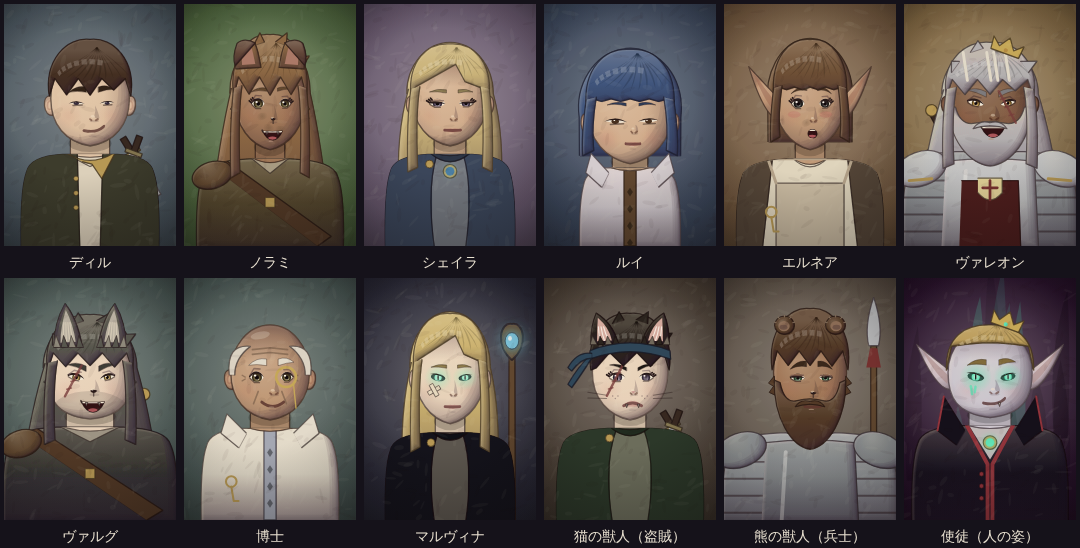
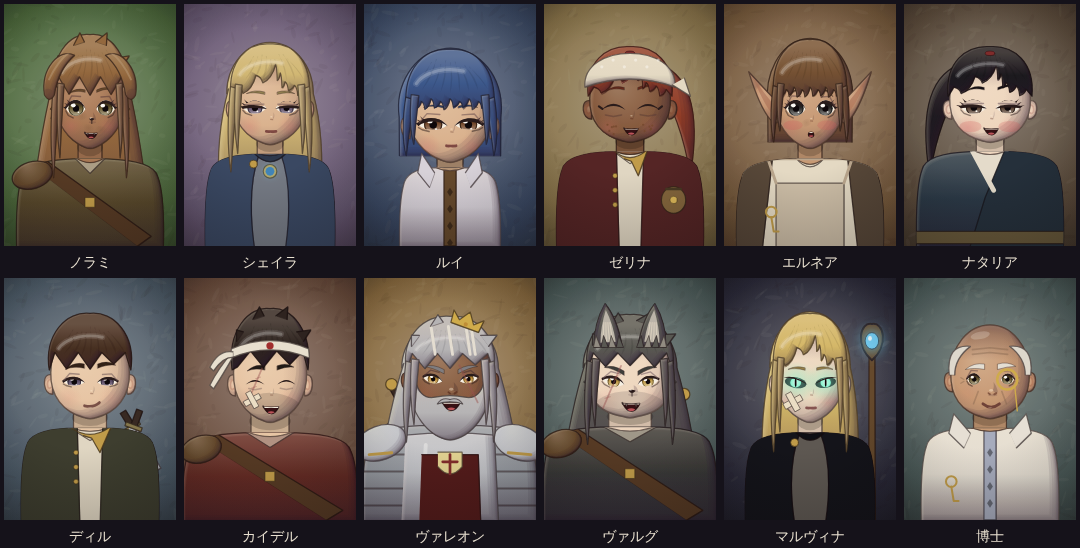
V3：人物の肖像を可愛く・美形に
- 顔：頬はふっくら顎は細く、目は大きめで中央より少し下（若い女ほど大きく、歳とともに落ち着く）、鼻と口は小さく、頬に赤み
- 目：虹彩は上が暗く下が明るい縦長、光の点を大きく二つ、目尻のまつげのはね。細目も半分閉じた目に
- 髪：前髪を先の尖った毛束に、横髪を二本の束に、光の輪を滑らかな帯に。ツインテール・三つ編み・流し前髪を足す
- 犬の耳は顔の脇へ垂れる垂れ耳に
- 傷・汚れ・皺は控えめに。筆のにじみは背景だけ。くすませる仕上げは弱く
- 比較画像の人物をキャラメモの人物中心に撮り直す（前は main のまま）

Claude-Session: https://claude.ai/code/session_01UgmRGEWXKYBTzGzTLKtqSh

diff --git a/src/ui/art_people.js b/src/ui/art_people.js
@@ -45,7 +45,7 @@
     priest: K({ name: "神官", desc: "光天教会の神官・修道女・巡礼", age: [22, 66], female: 0.45, outfit: ["vestment"], head: ["none", "mitre", "none", "veil"], gear: ["none", "none", "staff"], chest: ["sun"], cloth: ["#ece6d6"], trim: ["#b08a1e", "#8a2a2a", "#2e4d8f"], bg: "#b8a870", eyes: ["narrow", "normal", "smile"], mouth: ["smile", "flat", "smirk"], brows: ["raised", "calm"], hair: ["short", "slick", "receding", "long"], marks: { wrinkles: 0.3, blush: 0.2, glasses: 0.15 } }),
     noble: K({ name: "貴族", desc: "貴族・その奥方・廷臣", age: [20, 62], outfit: ["noble"], head: ["none", "circlet", "none"], chest: ["gem", "chain"], cloth: ["#5a1a3a", "#1a3a5a", "#2a4a2a", "#4a2a6a"], bg: "#6a4a6a", eyes: ["narrow", "sleepy", "normal"], mouth: ["smirk", "flat", "frown"], brows: ["raised"], hair: ["slick", "long", "bun", "parted"], marks: { mustache: 0.35, glasses: 0.15, blush: 0.25, earring: 0.3 } }),
     rogue: K({ name: "ならず者", desc: "盗賊・ごろつき・用心棒・奴隷商人", age: [18, 48], female: 0.3, outfit: ["leather", "rags", "cloak"], head: ["bandana", "none", "hood"], gear: ["daggers", "none", "sword"], cloth: ["#4a3a2a", "#2e3a2e", "#3a2a3a", "#5a3a2a"], bg: "#4a4038", eyes: ["sharp", "narrow", "normal"], mouth: ["grin", "smirk", "frown"], brows: ["angry", "raised"], hair: ["messy", "spiky", "short", "long"], marks: { scar: 0.45, stubble: 0.45, eyepatch: 0.15, earring: 0.3, tattoo: 0.2 } }),
-    child: K({ name: "子ども", desc: "町の子ども・孤児・スリの子", age: [7, 12], outfit: ["tunic", "rags", "apron"], head: ["none", "none", "cap"], cloth: ["#7a5a3a", "#5a7a8a", "#8a4a3a", "#6a7a4a"], bg: "#8a9a7a", eyes: ["round", "normal"], mouth: ["open", "smile", "frown"], brows: ["worried", "raised", "calm"], hair: ["messy", "short", "bob", "ponytail"], marks: { freckles: 0.45, blush: 0.5, bandage: 0.25 } }),
+    child: K({ name: "子ども", desc: "町の子ども・孤児・スリの子", age: [7, 12], outfit: ["tunic", "rags", "apron"], head: ["none", "none", "cap"], cloth: ["#7a5a3a", "#5a7a8a", "#8a4a3a", "#6a7a4a"], bg: "#8a9a7a", eyes: ["round", "normal"], mouth: ["open", "smile", "frown"], brows: ["worried", "raised", "calm"], hair: ["messy", "short", "bob", "ponytail", "twintail"], marks: { freckles: 0.45, blush: 0.5, bandage: 0.25 } }),
     elder: K({ name: "老人", desc: "村の長老・隠者・占い婆", age: [66, 90], outfit: ["robe", "tunic", "cloak"], head: ["none", "none", "hood", "kerchief"], gear: ["none", "staff"], cloth: ["#5a5048", "#4a4a5a", "#6a5a3a"], bg: "#6a6258", eyes: ["narrow", "sleepy", "normal"], mouth: ["flat", "smile", "open"], brows: ["worried", "calm"], hair: ["bald", "receding", "long", "bun"], marks: { wrinkles: 1, beard: 0.45, bags: 0.6 } }),
     soldier: K({ name: "兵士", desc: "帝国兵・脱走兵・傭兵団の兵", age: [18, 45], female: 0.15, outfit: ["armor", "leather"], head: ["helmet", "none", "headband"], gear: ["sword", "spear"], cloth: ["#5a2a22", "#3a3a3a", "#4a4a2a"], bg: "#5a5048", eyes: ["sharp", "normal", "sleepy"], mouth: ["frown", "flat"], brows: ["angry", "worried"], hair: ["short", "messy", "spiky"], marks: { scar: 0.4, stubble: 0.5, bandage: 0.25 } }),
     knight: K({ name: "騎士", desc: "王国の騎士・近衛・聖騎士", age: [20, 50], female: 0.3, outfit: ["plate"], head: ["none", "none", "helmet"], gear: ["greatsword", "sword"], chest: ["crest"], cloth: ["#2a4a9a", "#8a2a2a", "#e0dcd0"], bg: "#4a5a7a", eyes: ["sharp", "normal"], mouth: ["flat", "smirk"], brows: ["angry", "calm", "raised"], hair: ["parted", "short", "long", "slick"], marks: { scar: 0.25, mustache: 0.15 } }),
@@ -66,8 +66,8 @@
     priest: K({ name: "破戒神官", outfit: ["vestment"], head: ["none", "none", "veil"], gear: ["mace"], chest: ["sun"], cloth: ["#ece6d6", "#d8d2c4"], trim: ["#8a2a2a", "#2e4d8f", "#b08a1e"], bg: "#9a8a5a", eyes: ["sleepy", "normal", "narrow"], mouth: ["smirk", "smile", "grin"], brows: ["raised", "calm"], hair: ["messy", "short", "long", "parted"], marks: { stubble: 0.45, bags: 0.4, blush: 0.35 } }),
     samurai: K({ name: "侍", outfit: ["kimono"], armor: true, head: ["none", "headband", "none"], gear: ["katana"], cloth: ["#2a2a3a", "#3a2a22", "#1a2a3a", "#4a1a1a"], bg: "#6a4a3a", eyes: ["sharp", "narrow", "normal"], mouth: ["flat", "frown", "smirk"], brows: ["angry", "calm"], hair: ["topknot", "ponytail", "messy", "long"], marks: { scar: 0.25, stubble: 0.25 } }),
   };
-  const FEMALE_HAIR = ["long", "ponytail", "bob", "bun", "parted", "long"];
-  const MALE_HAIR = ["short", "messy", "spiky", "parted", "slick", "short"];
+  const FEMALE_HAIR = ["long", "ponytail", "bob", "bun", "parted", "long", "twintail", "braid"];
+  const MALE_HAIR = ["short", "messy", "spiky", "parted", "slick", "short", "swept"];
 
   // ---------------------------------------------------------------- 見た目を決める（純粋な関数）
   G.personLook = (who) => {
@@ -96,6 +96,7 @@
     if (female && ["receding", "bald"].includes(L.hairStyle)) L.hairStyle = pickR(R, ["bun", "long"]);
     if (!female && L.head === "veil") L.head = "none";
     if (!female && L.hairStyle === "bob") L.hairStyle = "messy";
+    if (!female && (L.hairStyle === "twintail" || L.hairStyle === "braid")) L.hairStyle = "ponytail";
     if (band === "old") { L.hair = pickR(R, ["#e2ded6", "#c8c4bc", "#9a9690", "#7a7672"]); }
     if (band === "mid" && R() < 0.4) L.streak = true;
     if (L.kind === "majin") { L.hair = pickR(R, ["#e8e4ec", "#1a1422", "#8a1a2a", "#4a2a6a", "#c8a040"]); L.iris = pickR(R, ["#ff3a3a", "#ffb02a", "#b04aff", "#3affc8"]); L.ears = "pointy"; }
@@ -241,8 +242,10 @@
   function facePath(ctx, cx, cy, rx, ry, jaw) {
     ctx.moveTo(cx - rx, cy);
     ctx.ellipse(cx, cy, rx, ry, 0, Math.PI, TAU);
-    ctx.bezierCurveTo(cx + rx, cy + ry * 0.55, cx + rx * jaw, cy + ry * 0.92, cx, cy + ry);
-    ctx.bezierCurveTo(cx - rx * jaw, cy + ry * 0.92, cx - rx, cy + ry * 0.55, cx - rx, cy);
+    // 頬はふっくら、顎の先は小さく丸く
+    ctx.bezierCurveTo(cx + rx * 1.02, cy + ry * 0.5, cx + rx * (jaw + 0.18), cy + ry * 0.84, cx + rx * 0.16, cy + ry * 0.95);
+    ctx.quadraticCurveTo(cx, cy + ry * 1.0, cx - rx * 0.16, cy + ry * 0.95);
+    ctx.bezierCurveTo(cx - rx * (jaw + 0.18), cy + ry * 0.84, cx - rx * 1.02, cy + ry * 0.5, cx - rx, cy);
   }
   const FACES = { oval: [1, 1, 0.62], round: [1.07, 0.95, 0.8], square: [1.04, 0.98, 0.9], long: [0.93, 1.08, 0.6], thin: [0.9, 1.02, 0.48] };
 
@@ -251,6 +254,16 @@
     const g = ctx.createRadialGradient(x + w * 0.5, y + h * 0.38, h * 0.05, x + w * 0.5, y + h * 0.5, h * 0.85);
     g.addColorStop(0, mix(L.bg, "#ffffff", 0.28)); g.addColorStop(0.55, L.bg); g.addColorStop(1, mix(L.bg, "#000000", 0.6));
     ctx.fillStyle = g; ctx.fillRect(x, y, w, h);
+    // 背景だけに筆のにじみ（人物の顔には載せない）
+    const R = rng((L.seed || "p") + ":brush");
+    ctx.lineCap = "round";
+    for (let i = 0; i < 220; i++) {
+      // 筆のひと押し（向きのばらつく、にじんだ短い楕円）
+      const px = x + R() * w, py = y + R() * h, len = h * (0.012 + R() * 0.025), a = -0.7 + (R() - 0.5) * 2.2;
+      ctx.fillStyle = i % 2 ? "rgba(255,244,220,.04)" : "rgba(30,18,20,.05)";
+      ctx.beginPath(); ellipse(ctx, px, py, len, h * (0.004 + R() * 0.006), a); ctx.fill();
+    }
+
     if (L.kind === "majin") {
       // 立ちのぼる黒い気
       const R = rng(L.seed + ":aura");
@@ -519,6 +532,17 @@
       });
     } else if (st === "bob") {
       paint(ctx, vgrad(ctx, cy - ry, cy + ry, c.base), lw, () => { ctx.moveTo(cx - rx * 1.2, cy + ry * 0.85); ctx.ellipse(cx, cy - ry * 0.05, rx * 1.22, ry * 1.12, 0, Math.PI * 0.95, Math.PI * 2.05); ctx.lineTo(cx + rx * 1.2, cy + ry * 0.85); });
+    } else if (st === "twintail") {
+      // 頭の両横の高い所で結び、外へふくらんで垂れる
+      for (const s of [-1, 1]) {
+        paint(ctx, vgrad(ctx, cy - ry, cy + ry * 1.9, c.base), lw, () => { ctx.moveTo(cx + s * rx * 0.85, cy - ry * 0.75); ctx.bezierCurveTo(cx + s * rx * 2.0, cy - ry * 0.7, cx + s * rx * 1.9, cy + ry * 1.0, cx + s * rx * 1.35, cy + ry * 1.9); ctx.quadraticCurveTo(cx + s * rx * 1.5, cy + ry * 0.7, cx + s * rx * 1.0, cy - ry * 0.35); ctx.closePath(); });
+        ctx.strokeStyle = rgba(c.dark, 0.5); ctx.lineWidth = lw * 0.7; ctx.beginPath(); ctx.moveTo(cx + s * rx * 1.1, cy - ry * 0.55); ctx.quadraticCurveTo(cx + s * rx * 1.7, cy + ry * 0.3, cx + s * rx * 1.4, cy + ry * 1.6); ctx.stroke();
+        ctx.strokeStyle = rgba(c.light, 0.5); ctx.lineWidth = lw * 1.2; ctx.beginPath(); ctx.moveTo(cx + s * rx * 1.25, cy - ry * 0.6); ctx.quadraticCurveTo(cx + s * rx * 1.6, cy - ry * 0.2, cx + s * rx * 1.6, cy + ry * 0.3); ctx.stroke();
+        paint(ctx, "#b03a52", lw * 0.6, () => ellipse(ctx, cx + s * rx * 0.95, cy - ry * 0.72, rx * 0.14, ry * 0.09));
+      }
+      paint(ctx, vgrad(ctx, cy - ry, cy + ry, c.base), lw, () => { ctx.moveTo(cx - rx * 1.15, cy + ry * 0.5); ctx.ellipse(cx, cy - ry * 0.05, rx * 1.15, ry * 1.08, 0, Math.PI, TAU); ctx.lineTo(cx + rx * 1.15, cy + ry * 0.5); });
+    } else if (st === "braid") {
+      paint(ctx, vgrad(ctx, cy - ry, cy + ry, c.base), lw, () => { ctx.moveTo(cx - rx * 1.15, cy + ry * 0.6); ctx.ellipse(cx, cy - ry * 0.05, rx * 1.15, ry * 1.08, 0, Math.PI, TAU); ctx.lineTo(cx + rx * 1.15, cy + ry * 0.6); });
     } else if (st === "ponytail") {
       const R = rng(L.seed + ":tail"), s = R() < 0.5 ? -1 : 1;
       paint(ctx, vgrad(ctx, cy - ry, cy + ry * 1.8, c.base), lw, () => { ctx.moveTo(cx + s * rx * 0.6, cy - ry * 0.8); ctx.quadraticCurveTo(cx + s * rx * 1.9, cy - ry * 0.5, cx + s * rx * 1.5, cy + ry * 1.7); ctx.quadraticCurveTo(cx + s * rx * 1.25, cy + ry * 0.4, cx + s * rx * 0.7, cy - ry * 0.3); });
@@ -542,12 +566,12 @@
     if (st === "spiky" || st === "messy" || st === "wild") {
       const n = st === "spiky" ? 5 : 6;
       for (let i = 0; i <= n; i++) { const t = i / n; const px = cx + rx * (0.9 - t * 1.8); fr.push(px, hl + (i % 2 ? ry * (0.22 + R() * 0.12) : -ry * 0.02)); }
-    } else if (st === "parted" || st === "long" || st === "ponytail") {
+    } else if (st === "parted" || st === "long" || st === "ponytail" || st === "braid" || st === "swept") {
       const part = R() < 0.5 ? -1 : 1;
       fr.push(cx + rx * 0.9, cy - ry * 0.25, cx + part * rx * 0.15, cy - ry * 0.72, cx - rx * 0.4, cy - ry * 0.35, cx - rx * 0.9, cy - ry * 0.2);
       if (part < 0) for (let i = 0; i < fr.length; i += 2) fr[i] = 2 * cx - fr[i];
       if (part < 0) { const p = []; for (let i = fr.length - 2; i >= 0; i -= 2) p.push(fr[i], fr[i + 1]); fr.length = 0; fr.push(...p); }
-    } else if (st === "bob") {
+    } else if (st === "bob" || st === "twintail") {
       for (let i = 0; i <= 8; i++) fr.push(cx + rx * (0.9 - (i / 8) * 1.8), cy - ry * 0.22 + (i % 2 ? ry * 0.05 : 0));
     } else if (st === "receding") {
       fr.push(cx + rx * 0.95, cy - ry * 0.35, cx + rx * 0.5, cy - ry * 0.55, cx + rx * 0.25, cy - ry * 0.95, cx - rx * 0.25, cy - ry * 0.95, cx - rx * 0.5, cy - ry * 0.55, cx - rx * 0.95, cy - ry * 0.35);
@@ -556,14 +580,25 @@
       const n = 5;
       for (let i = 0; i <= n; i++) fr.push(cx + rx * (0.92 - (i / n) * 1.84), hl + (st === "slick" || st === "topknot" || st === "bun" ? -Math.sin((i / n) * Math.PI) * ry * 0.08 : (i % 2 ? ry * 0.1 : 0)));
     }
+    // 前髪は尖った毛束にする（点を足して、点と点のあいだに先の細い束を垂らす）
+    const locks = !["spiky", "messy", "wild", "receding"].includes(st);
+    if (locks && fr.length < 14) { const p = fr.slice(); fr.length = 0; for (let i = 0; i < p.length - 2; i += 2) for (let k = 0; k < 2; k++) fr.push(p[i] + (p[i + 2] - p[i]) * k / 2, p[i + 1] + (p[i + 3] - p[i + 1]) * k / 2); fr.push(p[p.length - 2], p[p.length - 1]); }
+    const fringe = () => {
+      ctx.lineTo(fr[0], fr[1]);
+      for (let i = 2; i < fr.length; i += 2) {
+        if (!locks) { ctx.lineTo(fr[i], fr[i + 1]); continue; }
+        const ax = fr[i - 2], ay = fr[i - 1], bx = fr[i], by = fr[i + 1], tx = (ax + bx) / 2 + (bx - ax) * 0.15, ty2 = Math.max(ay, by) + ry * (0.1 + R() * 0.06);
+        ctx.quadraticCurveTo(ax + (tx - ax) * 0.3, ay + (ty2 - ay) * 0.8, tx, ty2);
+        ctx.quadraticCurveTo(tx + (bx - tx) * 0.2, by + (ty2 - by) * 0.2, bx, by);
+      }
+    };
     const cap = () => {
       ctx.moveTo(lx, ty);
       if (st === "receding") { ctx.lineTo(lx, cy - ry * 0.45); } else ctx.bezierCurveTo(lx - rx * (vol - 1), cy - ry * 0.8, cx - rx * 0.6, top - ry * (vol - 1) * 2, cx, top - ry * (vol - 1) * 1.6);
       if (st !== "receding") ctx.bezierCurveTo(cx + rx * 0.6, top - ry * (vol - 1) * 2, rxp + rx * (vol - 1), cy - ry * 0.8, rxp, ty);
       else { ctx.moveTo(rxp, cy - ry * 0.45); }
       ctx.lineTo(rxp, ty);
-      ctx.lineTo(fr[0], fr[1]);
-      for (let i = 2; i < fr.length; i += 2) ctx.lineTo(fr[i], fr[i + 1]);
+      fringe();
       ctx.lineTo(lx, ty);
     };
     if (st === "receding") {
@@ -575,23 +610,34 @@
       // 毛の流れ
       ctx.save(); ctx.beginPath(); cap(); ctx.clip();
       // 毛の束：つむじから前髪へ流れる暗い溝と、光を受ける筋
-      const crown = [cx + rx * 0.15, top - ry * 0.05];
-      for (let i = 0; i < 11; i++) {
-        const t = i / 10, ex = cx + rx * (-1.0 + t * 2.0), ey = cy - ry * (0.35 + Math.abs(t - 0.5) * 0.25), w = rx * (0.035 + R() * 0.03);
-        ctx.fillStyle = rgba(c.dark, 0.38); ctx.beginPath(); ctx.moveTo(crown[0], crown[1]); ctx.quadraticCurveTo((crown[0] + ex) / 2 + w * 4, (crown[1] + ey) / 2, ex, ey); ctx.quadraticCurveTo((crown[0] + ex) / 2 + w * 2, (crown[1] + ey) / 2, crown[0] + w, crown[1]); ctx.fill();
+      for (let i = 0; i < 9; i++) {
+        const t = (i + 0.5) / 9, sx0 = cx + rx * (-0.5 + t * 1.0), sy0 = top + ry * (0.05 + R() * 0.15), ex = cx + rx * (-1.0 + t * 2.0), ey = cy - ry * (0.32 + Math.abs(t - 0.5) * 0.2), w = rx * (0.03 + R() * 0.03);
+        ctx.fillStyle = rgba(c.dark, 0.22); ctx.beginPath(); ctx.moveTo(sx0, sy0); ctx.quadraticCurveTo((sx0 + ex) / 2 + w * 3, (sy0 + ey) / 2, ex, ey); ctx.quadraticCurveTo((sx0 + ex) / 2 + w, (sy0 + ey) / 2, sx0 + w * 0.5, sy0); ctx.fill();
       }
       // 光の輪（天使の輪）：毛の束で切れぎれ
       const ringY = cy - ry * 0.68;
-      for (let i = 0; i < 7; i++) { const a0 = Math.PI * (1.12 + i * 0.075), a1 = a0 + Math.PI * 0.05; ctx.fillStyle = rgba(c.light, 0.6); ctx.beginPath(); ctx.ellipse(cx, ringY + ry * 0.3, rx * 0.9, ry * 0.45, 0, a0, a1); ctx.ellipse(cx, ringY + ry * 0.36, rx * 0.84, ry * 0.4, 0, a1, a0, true); ctx.closePath(); ctx.fill(); }
+      ctx.lineCap = "round";
+      for (const [wd, al] of [[ry * 0.12, 0.22], [ry * 0.06, 0.5]]) { ctx.strokeStyle = rgba(mix(c.light, "#ffffff", 0.3), al); ctx.lineWidth = wd; ctx.setLineDash([rx * 0.42, rx * 0.07, rx * 0.25, rx * 0.06]); ctx.beginPath(); ctx.ellipse(cx, ringY + ry * 0.33, rx * 0.86, ry * 0.42, 0, Math.PI * 1.12, Math.PI * 1.62); ctx.stroke(); }
+      ctx.setLineDash([]);
       if (L.streak) for (let i = 0; i < 4; i++) { const px = cx + (R() - 0.5) * rx * 1.5; line(ctx, "#e8e4dc", lw * 1.5, [px, top, px + rx * 0.1, cy - ry * 0.4]); }
       ctx.restore();
       // とがった毛先を上に
       if (st === "spiky" || st === "wild") for (let i = 0; i < 4; i++) { const a = Math.PI * (1.2 + i * 0.2), bx = cx + Math.cos(a) * rx * 1.02, by = cy - ry * 0.1 + Math.sin(a) * ry * 1.02; paint(ctx, c.base, lw, () => { ctx.moveTo(bx - Math.sin(a) * rx * 0.16, by + Math.cos(a) * rx * 0.16); ctx.lineTo(bx + Math.cos(a) * rx * 0.24 + rx * 0.1, by + Math.sin(a) * ry * 0.22); ctx.lineTo(bx + Math.sin(a) * rx * 0.16, by - Math.cos(a) * rx * 0.16); }); }
     }
     // 横の毛（長い髪・おかっぱ）
-    if (st === "long" || st === "bob" || st === "wild") {
-      const len = st === "bob" ? 0.85 : 1.55;
-      for (const s of [-1, 1]) paint(ctx, vgrad(ctx, cy - ry * 0.5, cy + ry * len, c.base), lw, () => { ctx.moveTo(cx + s * rx * 1.04, cy - ry * 0.2); ctx.quadraticCurveTo(cx + s * rx * 1.16, cy + ry * 0.5, cx + s * rx * 1.12, cy + ry * len); ctx.lineTo(cx + s * rx * 0.86, cy + ry * (len - 0.1)); ctx.quadraticCurveTo(cx + s * rx * 0.92, cy + ry * 0.3, cx + s * rx * 0.8, cy - ry * 0.25); });
+    if (st === "long" || st === "bob" || st === "wild" || st === "twintail" || st === "braid" || st === "parted" && L.sex === "女") {
+      const len = st === "bob" ? 0.85 : st === "twintail" || st === "braid" || st === "parted" ? 0.7 : 1.55;
+      // 横髪：先の尖った二本の毛束（外の束が長い）
+      for (const s of [-1, 1]) {
+        paint(ctx, vgrad(ctx, cy - ry * 0.5, cy + ry * len, c.base), lw, () => { ctx.moveTo(cx + s * rx * 1.05, cy - ry * 0.25); ctx.quadraticCurveTo(cx + s * rx * 1.18, cy + ry * len * 0.5, cx + s * rx * 1.04, cy + ry * len); ctx.quadraticCurveTo(cx + s * rx * 0.98, cy + ry * len * 0.55, cx + s * rx * 0.86, cy - ry * 0.2); ctx.closePath(); });
+        paint(ctx, vgrad(ctx, cy - ry * 0.5, cy + ry * len * 0.8, mix(c.base, LIGHT, 0.08)), lw, () => { ctx.moveTo(cx + s * rx * 0.92, cy - ry * 0.3); ctx.quadraticCurveTo(cx + s * rx * 0.98, cy + ry * len * 0.35, cx + s * rx * 0.86, cy + ry * len * 0.75); ctx.quadraticCurveTo(cx + s * rx * 0.82, cy + ry * len * 0.3, cx + s * rx * 0.74, cy - ry * 0.28); ctx.closePath(); });
+      }
+    }
+    // 三つ編み：片側の肩から胸へ垂らす（編み目の連なり）
+    if (st === "braid") {
+      const sd = rng(L.seed + ":braid")() < 0.5 ? -1 : 1;
+      for (let i = 0; i < 7; i++) { const bx = cx + sd * rx * (0.95 + i * 0.03), by = cy + ry * (0.35 + i * 0.22), r = rx * (0.2 - i * 0.012); paint(ctx, rgrad(ctx, bx, by, r, c.base), lw * 0.8, () => { ctx.ellipse(bx, by, r, ry * 0.14, sd * 0.35 * (i % 2 ? 1 : -1), 0, TAU); }); }
+      paint(ctx, "#a83a4a", lw * 0.6, () => ellipse(ctx, cx + sd * rx * 1.17, cy + ry * 1.88, rx * 0.12, ry * 0.05));
     }
     // 結った髪
     if (st === "bun") paint(ctx, rgrad(ctx, cx, top - ry * 0.1, rx * 0.4, c.base), lw, () => ellipse(ctx, cx, top - ry * 0.08, rx * 0.4, ry * 0.26));
@@ -702,7 +748,7 @@
     const slitPupil = L.beast === "cat" || L.beast === "fox" || L.eyes === "glow";
     [-1, 1].forEach((s) => {
       // 顔は少しだけ右を向く：奥（右）の目は小さく、内へ寄る
-      const er = er0 * (s > 0 ? 0.9 : 1), ex = cx + s * sp * (s > 0 ? 0.88 : 1);
+      const er = er0 * (s > 0 ? 0.96 : 1), ex = cx + s * sp * (s > 0 ? 0.95 : 1);
       if (s === 1 && L.marks.includes("eyepatch")) return;
       const iris = s === 1 && L.iris2 ? L.iris2 : L.iris;
       const st = L.eyes;
@@ -714,7 +760,7 @@
         if (female) line(ctx, INK, lw * 1.1, [ex + s * er * 1.1, ey + er * 0.15, ex + s * er * 1.45, ey - er * 0.1]);
         return;
       }
-      if (st === "narrow") {
+      if (st === "narrow" && false) {
         ctx.fillStyle = "#f4efe6"; ctx.beginPath(); ctx.moveTo(ex - er * 1.2, ey); ctx.quadraticCurveTo(ex, ey - er * 0.45, ex + er * 1.2, ey - er * s * 0.1); ctx.quadraticCurveTo(ex, ey + er * 0.4, ex - er * 1.2, ey); ctx.fill();
         ctx.fillStyle = mix(iris, "#000000", 0.35); ctx.beginPath(); ellipse(ctx, ex + s * er * 0.05, ey + er * 0.02, er * 0.42, er * 0.3); ctx.fill();
         ctx.fillStyle = "#ffffff"; ctx.beginPath(); ellipse(ctx, ex - er * 0.15, ey - er * 0.08, er * 0.1, er * 0.08); ctx.fill();
@@ -734,7 +780,7 @@
         ctx.fillStyle = INK; ctx.beginPath(); ctx.moveTo(ex - s * er * 1.35, ey + er * 0.2); ctx.quadraticCurveTo(ex, ey - er * 0.95, ex + s * er * 1.4, ey - er * 0.6); ctx.quadraticCurveTo(ex, ey - er * 0.6, ex - s * er * 1.35, ey + er * 0.2); ctx.fill();
         return;
       }
-      const tall = st === "round" ? 1.05 : st === "sharp" ? 0.6 : st === "sleepy" ? 0.8 : 0.84;
+      const tall = st === "round" ? 1.12 : st === "sharp" ? 0.72 : st === "sleepy" ? 0.85 : st === "narrow" ? 0.62 : 0.96;
       const wide = st === "round" ? 1.12 : 1.25;
       const tilt = st === "sharp" ? s * -0.2 : 0;
       ctx.save(); ctx.translate(ex, ey); ctx.rotate(tilt);
@@ -743,16 +789,16 @@
       ctx.beginPath(); white(); ctx.fillStyle = "#faf6ee"; ctx.fill();
       ctx.save(); ctx.beginPath(); white(); ctx.clip();
       ctx.fillStyle = rgba(mix(L.skin, SHADOW, 0.5), 0.35); ctx.fillRect(-er * 2, -er * 2, er * 4, er * 1.55);
-      const ir = er * (st === "sharp" ? 0.6 : st === "round" ? 0.78 : 0.72);
-      const ix = -er * 0.04, iy = er * 0.05;
-      const g = ctx.createRadialGradient(ix, iy + ir * 0.35, ir * 0.1, ix, iy, ir);
-      g.addColorStop(0, mix(iris, "#ffffff", 0.45)); g.addColorStop(0.55, iris); g.addColorStop(1, mix(iris, "#000000", 0.55));
-      ctx.fillStyle = g; ctx.beginPath(); ellipse(ctx, ix, iy, ir, ir * 1.05); ctx.fill();
+      const ir = er * (st === "sharp" ? 0.68 : st === "round" ? 0.86 : 0.8);
+      const ix = -er * 0.04, iy = -er * 0.02;
+      const g = ctx.createLinearGradient(ix, iy - ir, ix, iy + ir);
+      g.addColorStop(0, mix(iris, "#000000", 0.55)); g.addColorStop(0.45, iris); g.addColorStop(1, mix(iris, "#ffffff", 0.5)); // 虹彩：上が暗く下が明るい
+      ctx.fillStyle = g; ctx.beginPath(); ellipse(ctx, ix, iy, ir, ir * 1.15); ctx.fill();
       ctx.strokeStyle = rgba(mix(iris, "#000000", 0.6), 0.9); ctx.lineWidth = Math.max(0.6, ir * 0.12); ctx.beginPath(); ellipse(ctx, ix, iy, ir * 0.94, ir * 0.99); ctx.stroke();
       ctx.fillStyle = "#0c080a"; ctx.beginPath(); if (slitPupil) { ctx.moveTo(ix, iy - ir * 0.85); ctx.quadraticCurveTo(ix + ir * 0.28, iy, ix, iy + ir * 0.85); ctx.quadraticCurveTo(ix - ir * 0.28, iy, ix, iy - ir * 0.85); } else ellipse(ctx, ix, iy, ir * 0.42, ir * 0.45); ctx.fill();
-      ctx.fillStyle = rgba(INK, 0.35); ctx.beginPath(); ctx.ellipse(ix, iy - ir * 0.2, ir, ir * 0.8, 0, Math.PI, TAU); ctx.fill(); // 上まぶたの落とす影
-      ctx.fillStyle = "#ffffff"; ctx.beginPath(); ellipse(ctx, ix - ir * 0.38 * (s < 0 ? -1 : 1), iy - ir * 0.38, ir * 0.27, ir * 0.24); ctx.fill();
-      ctx.beginPath(); ellipse(ctx, ix + ir * 0.35 * (s < 0 ? -1 : 1), iy + ir * 0.42, ir * 0.1, ir * 0.1); ctx.fill();
+      ctx.fillStyle = rgba(INK, 0.22); ctx.beginPath(); ctx.ellipse(ix, iy - ir * 0.25, ir * 1.05, ir * 0.75, 0, Math.PI, TAU); ctx.fill(); // 上まぶたの落とす影
+      ctx.fillStyle = "#ffffff"; ctx.beginPath(); ellipse(ctx, ix - ir * 0.36 * (s < 0 ? -1 : 1), iy - ir * 0.42, ir * 0.32, ir * 0.28); ctx.fill();
+      ctx.beginPath(); ellipse(ctx, ix + ir * 0.32 * (s < 0 ? -1 : 1), iy + ir * 0.5, ir * 0.13, ir * 0.11); ctx.fill();
       if (st === "sleepy") { ctx.fillStyle = mix(L.skin, SHADOW, 0.08); ctx.fillRect(-er * 2, -er * 2, er * 4, er * 1.82); }
       ctx.restore();
       // 上まぶた（目尻が太い）
@@ -763,9 +809,11 @@
       ctx.lineTo(er * wide * 1.02, er * 0.12);
       ctx.bezierCurveTo(er * wide * 0.5, top + er * 0.12, -er * wide * 0.6, top + er * 0.2, -er * wide * 1.05, er * 0.12);
       ctx.fill();
-      if (female) for (let i = 0; i < 3; i++) line(ctx, INK, lw * 0.9, [er * wide * (0.65 + i * 0.2), -er * tall * (0.55 - i * 0.22) - er * 0.05, er * wide * (0.85 + i * 0.25), -er * tall * (0.85 - i * 0.25) - er * 0.1]);
+      if (female || L.band === "child") for (let i = 0; i < (female ? 3 : 1); i++) { // 目尻のまつげ（はね）
+        const bx = er * wide * (0.62 + i * 0.2), by = -er * tall * (0.62 - i * 0.28) - er * 0.08;
+        ctx.fillStyle = INK; ctx.beginPath(); ctx.moveTo(bx - er * 0.12, by + er * 0.06); ctx.quadraticCurveTo(bx + er * 0.2, by - er * 0.12, bx + er * (0.35 + i * 0.05), by - er * (0.3 - i * 0.12)); ctx.quadraticCurveTo(bx + er * 0.12, by + er * 0.02, bx + er * 0.1, by + er * 0.12); ctx.fill(); }
       // 下まぶたと二重
-      line(ctx, rgba(INK, 0.55), lw * 0.7, [-er * wide * 0.4, er * tall * 0.85, er * wide * 0.3, er * tall * 0.85, er * wide * 0.95, er * 0.2]);
+      line(ctx, rgba(INK, 0.5), lw * 0.7, [er * wide * 0.25, er * tall * 0.95, er * wide * 0.75, er * tall * 0.7, er * wide * 1.0, er * 0.25]); // 下まぶた（目尻の側だけ）
       if (st !== "sleepy") line(ctx, rgba(mix(L.skin, SHADOW, 0.6), 0.6), lw * 0.7, [-er * wide * 0.5, top - er * 0.32, er * wide * 0.4, top - er * 0.4, er * wide * 0.95, -er * tall * 0.3]);
       else line(ctx, rgba(mix(L.skin, SHADOW, 0.6), 0.6), lw * 0.7, [-er * wide * 0.8, -er * 0.4, er * wide * 0.9, -er * 0.35]);
       ctx.restore();
@@ -773,12 +821,12 @@
   }
   // 眉：筆で払ったような形（内側が太く、外へ細く）
   function browPair(ctx, L, cx, ey, sp0, er, U) {
-    const th = U * (L.sex === "女" ? 0.012 : 0.02) * (L.band === "old" ? 1.25 : 1) * (L.band === "child" ? 0.8 : 1);
+    const th = U * (L.sex === "女" ? 0.009 : 0.016) * (L.band === "old" ? 1.25 : 1) * (L.band === "child" ? 0.8 : 1);
     const c = L.band === "old" ? mix(L.hair, "#ffffff", 0.2) : mix(L.hair, "#000000", 0.3);
-    const by = ey - er * (L.eyes === "round" ? 2.05 : 1.85);
+    const by = ey - er * (L.eyes === "round" ? 1.7 : 1.55);
     const b = L.brows;
     [-1, 1].forEach((s) => {
-      const sp = sp0 * (s > 0 ? 0.88 : 1);
+      const sp = sp0 * (s > 0 ? 0.95 : 1);
       const ix = cx + s * sp * 0.4, ox = cx + s * sp * 1.5;
       const iy = by + (b === "angry" ? er * 0.6 : b === "worried" ? -er * 0.45 : b === "raised" ? -er * 0.3 : 0);
       const oy = by + (b === "worried" ? er * 0.3 : b === "angry" ? -er * 0.15 : b === "raised" && s === 1 ? -er * 0.5 : 0);
@@ -794,6 +842,13 @@
     const lw = U * 0.007;
     const k = L.band === "child" ? 0.7 : L.sex === "女" ? 0.85 : 1;
     const sh = rgba(mix(L.skin, SHADOW, 0.55), 0.38);
+    if ((L.band === "young" || L.band === "child") && !L.beast) {
+      // 若い顔の鼻は小さく：鼻先の右の影と光だけ
+      ctx.fillStyle = sh; ctx.beginPath(); ctx.moveTo(cx + rx * 0.05, ny - rx * 0.16); ctx.quadraticCurveTo(cx + rx * 0.09, ny - rx * 0.02, cx + rx * 0.02, ny + rx * 0.03); ctx.quadraticCurveTo(cx + rx * 0.05, ny - rx * 0.05, cx + rx * 0.05, ny - rx * 0.16); ctx.fill();
+      ctx.fillStyle = rgba(mix(L.skin, LIGHT, 0.7), 0.6); ctx.beginPath(); ellipse(ctx, cx - rx * 0.015, ny - rx * 0.04, rx * 0.03, rx * 0.02); ctx.fill();
+      line(ctx, rgba(mix(L.skin, "#4a1a10", 0.5), 0.6), lw * 0.8, [cx - rx * 0.03, ny + rx * 0.03, cx + rx * 0.02, ny + rx * 0.035]);
+      return;
+    }
     ctx.fillStyle = sh; ctx.beginPath(); ctx.moveTo(cx + rx * 0.04, ey + er * 0.4); ctx.quadraticCurveTo(cx + rx * 0.14 * k, ny - rx * 0.12, cx + rx * 0.15 * k, ny); ctx.quadraticCurveTo(cx + rx * 0.05, ny + rx * 0.04, cx + rx * 0.02, ny - rx * 0.06); ctx.quadraticCurveTo(cx + rx * 0.06, ey + er * 1.4, cx + rx * 0.04, ey + er * 0.4); ctx.fill();
     ctx.fillStyle = rgba(mix(L.skin, LIGHT, 0.7), 0.6); ctx.beginPath(); ellipse(ctx, cx - rx * 0.02, ny - rx * 0.05, rx * 0.05 * k, rx * 0.035 * k); ctx.fill();
     ctx.fillStyle = rgba(mix(L.skin, SHADOW, 0.5), 0.3); ctx.beginPath(); ellipse(ctx, cx + rx * 0.02, ny + rx * 0.07, rx * 0.12 * k, rx * 0.03); ctx.fill();
@@ -835,7 +890,7 @@
       ctx.beginPath(); ctx.moveTo(pts[0], pts[1]); ctx.quadraticCurveTo(pts[2] * 2 - (pts[0] + pts[4]) / 2, pts[3] * 2 - (pts[1] + pts[5]) / 2, pts[4], pts[5]);
       ctx.strokeStyle = dark; ctx.lineWidth = lw * 1.3; ctx.lineCap = "round"; ctx.stroke();
       ctx.fillStyle = rgba(mix(lip, LIGHT, 0.55), 0.55); ctx.beginPath(); ellipse(ctx, cx - mw * 0.12, my + mw * 0.32, mw * 0.28, mw * 0.06); ctx.fill();
-      ctx.fillStyle = rgba(mix(L.skin, SHADOW, 0.5), 0.3); ctx.beginPath(); ellipse(ctx, cx, my + mw * 0.6, mw * 0.35, mw * 0.08); ctx.fill(); // 下唇の下の影
+      ctx.fillStyle = rgba(mix(L.skin, SHADOW, 0.5), 0.15); ctx.beginPath(); ellipse(ctx, cx, my + mw * 0.6, mw * 0.3, mw * 0.07); ctx.fill(); // 下唇の下の影
       if (m === "smirk") line(ctx, dark, lw, [pts[4], pts[5], pts[4] + mw * 0.08, pts[5] - mw * 0.1]);
     }
     if (fang) for (const s of m === "smirk" ? [1] : [-1, 1]) {
@@ -852,14 +907,14 @@
     if (has("stubble") || has("dirt")) {
       ctx.save(); ctx.beginPath(); facePath(ctx, cx, cy, rx, ry, jaw); ctx.clip();
       if (has("stubble")) { ctx.fillStyle = rgba(mix(L.hair, "#2a2a2a", 0.4), 0.17); ctx.beginPath(); ellipse(ctx, cx, cy + ry * 0.85, rx * 0.95, ry * 0.45); ctx.fill(); }
-      if (has("dirt")) { const R = rng(L.seed + ":dirt"); for (let i = 0; i < 3; i++) { const px = cx + (R() - 0.5) * rx * 1.4, py = cy + (0.2 + R() * 0.6) * ry; const gd = ctx.createRadialGradient(px, py, 0, px, py, rx * 0.16); gd.addColorStop(0, rgba("#5a4028", 0.28)); gd.addColorStop(1, rgba("#5a4028", 0)); ctx.fillStyle = gd; ctx.beginPath(); ellipse(ctx, px, py, rx * 0.18, ry * 0.07, (R() - 0.5)); ctx.fill(); } }
+      if (has("dirt")) { const R = rng(L.seed + ":dirt"); for (let i = 0; i < 3; i++) { const px = cx + (R() - 0.5) * rx * 1.4, py = cy + (0.2 + R() * 0.6) * ry; const gd = ctx.createRadialGradient(px, py, 0, px, py, rx * 0.16); gd.addColorStop(0, rgba("#5a4028", 0.14)); gd.addColorStop(1, rgba("#5a4028", 0)); ctx.fillStyle = gd; ctx.beginPath(); ellipse(ctx, px, py, rx * 0.18, ry * 0.07, (R() - 0.5)); ctx.fill(); } }
       ctx.restore();
     }
     if (has("gaunt")) for (const s of [-1, 1]) line(ctx, rgba(mix(L.skin, "#000000", 0.4), 0.6), lw, [cx + s * rx * 0.62, cy + ry * 0.3, cx + s * rx * 0.55, cy + ry * 0.62]);
     if (has("blush")) { ctx.fillStyle = rgba("#e05a5a", 0.25); for (const s of [-1, 1]) { ctx.beginPath(); ellipse(ctx, cx + s * sp * 1.1, ey + er * 1.9, er * 1.1, er * 0.55); ctx.fill(); } }
     if (has("freckles")) { const R = rng(L.seed + ":frk"); ctx.fillStyle = rgba(mix(L.skin, "#6a3a1a", 0.6), 0.75); for (const s of [-1, 1]) for (let i = 0; i < 6; i++) { ctx.beginPath(); ellipse(ctx, cx + s * (sp * 0.6 + R() * sp * 0.8), ey + er * (1.6 + R() * 1.1), U * 0.0045, U * 0.0045); ctx.fill(); } }
     if (has("wrinkles")) {
-      const c = rgba(mix(L.skin, "#000000", 0.45), 0.55);
+      const c = rgba(mix(L.skin, "#000000", 0.45), 0.32);
       for (let i = 0; i < 2; i++) line(ctx, c, lw * 0.8, [cx - rx * 0.45, cy - ry * (0.48 - i * 0.1), cx, cy - ry * (0.52 - i * 0.1), cx + rx * 0.45, cy - ry * (0.48 - i * 0.1)]);
       for (const s of [-1, 1]) { line(ctx, c, lw * 0.8, [cx + s * rx * 0.3, cy + ry * 0.4, cx + s * rx * 0.42, cy + ry * 0.66]); line(ctx, c, lw * 0.7, [cx + s * (sp + er * 1.4), ey, cx + s * (sp + er * 1.9), ey - er * 0.3]); line(ctx, c, lw * 0.7, [cx + s * (sp + er * 1.4), ey + er * 0.3, cx + s * (sp + er * 1.9), ey + er * 0.6]); }
     }
@@ -895,8 +950,8 @@
     if (has("scar")) {
       const R = rng(L.seed + ":scar"), s = R() < 0.5 ? -1 : 1;
       const x0 = cx + s * sp * 0.5, y0 = ey - er * 1.8, x1 = cx + s * sp * 1.5, y1 = ey + er * 3;
-      line(ctx, rgba("#8a3a3a", 0.8), lw * 1.2, [x0, y0, x1, y1]);
-      for (let i = 1; i < 4; i++) { const t = i / 4, px = x0 + (x1 - x0) * t, py = y0 + (y1 - y0) * t; line(ctx, rgba("#8a3a3a", 0.7), lw * 0.8, [px - er * 0.35, py + er * 0.1, px + er * 0.35, py - er * 0.1]); }
+      line(ctx, rgba("#a05050", 0.45), lw * 0.9, [x0, y0, x1, y1]);
+      for (let i = 1; i < 4; i++) { const t = i / 4, px = x0 + (x1 - x0) * t, py = y0 + (y1 - y0) * t; line(ctx, rgba("#a05050", 0.3), lw * 0.6, [px - er * 0.3, py + er * 0.1, px + er * 0.3, py - er * 0.1]); }
     }
     if (has("bandage")) {
       const bx = cx - sp * 1.1, by = ey + er * 2.2;
@@ -959,11 +1014,14 @@
         const tip = [bx + s * w * lean * 2.2, by - h];
         const outer = () => { ctx.moveTo(bx - s * w * 0.95, by + h * 0.15); ctx.quadraticCurveTo(bx - s * w * 0.6, by - h * 0.6, tip[0], tip[1]); ctx.quadraticCurveTo(bx + s * w * 1.1, by - h * 0.45, bx + s * w * 1.05, by + h * 0.2); ctx.closePath(); };
         if (kind === "dog") {
-          // 犬：付け根は立ち、上の三分の一が外へ折れて垂れる
-          const fold = [bx + s * w * 0.1, by - h * 0.62];
-          paint(ctx, vgrad(ctx, by - h, by, fur), lw, () => { ctx.moveTo(bx - s * w * 0.95, by + h * 0.15); ctx.quadraticCurveTo(bx - s * w * 0.7, by - h * 0.45, fold[0] - s * w * 0.55, fold[1]); ctx.lineTo(fold[0] + s * w * 0.75, fold[1] + h * 0.05); ctx.quadraticCurveTo(bx + s * w * 1.1, by - h * 0.25, bx + s * w * 1.05, by + h * 0.2); ctx.closePath(); });
-          ctx.fillStyle = pink; ctx.beginPath(); ctx.moveTo(bx - s * w * 0.5, by + h * 0.05); ctx.quadraticCurveTo(bx - s * w * 0.3, by - h * 0.35, fold[0] - s * w * 0.25, fold[1] + h * 0.08); ctx.lineTo(fold[0] + s * w * 0.45, fold[1] + h * 0.12); ctx.quadraticCurveTo(bx + s * w * 0.6, by - h * 0.15, bx + s * w * 0.55, by + h * 0.08); ctx.fill();
-          paint(ctx, vgrad(ctx, fold[1], fold[1] + h * 0.7, dark), lw, () => { ctx.moveTo(fold[0] - s * w * 0.6, fold[1]); ctx.quadraticCurveTo(fold[0] + s * w * 0.3, fold[1] - h * 0.18, fold[0] + s * w * 0.85, fold[1] + h * 0.02); ctx.quadraticCurveTo(fold[0] + s * w * 1.25, fold[1] + h * 0.45, fold[0] + s * w * 1.0, fold[1] + h * 0.72); ctx.quadraticCurveTo(fold[0] + s * w * 0.4, fold[1] + h * 0.45, fold[0] - s * w * 0.6, fold[1]); ctx.closePath(); });
+          // 犬：頭の上の横から、顔の脇へふわりと垂れる耳（先が丸く、少し外へ開く）
+          const ax = cx + s * rx * 0.62, ay = cy - ry * 0.88, ex2 = cx + s * rx * 1.22, ey2 = cy - ry * 0.02;
+          const drop = () => { ctx.moveTo(ax - s * rx * 0.18, ay + ry * 0.04); ctx.bezierCurveTo(ax + s * rx * 0.25, ay - ry * 0.12, ex2 + s * rx * 0.2, ey2 - ry * 0.55, ex2 + s * rx * 0.08, ey2 - ry * 0.05); ctx.quadraticCurveTo(ex2 - s * rx * 0.05, ey2 + ry * 0.12, ex2 - s * rx * 0.2, ey2 - ry * 0.05); ctx.bezierCurveTo(ex2 - s * rx * 0.28, ey2 - ry * 0.4, ax + s * rx * 0.1, ay + ry * 0.2, ax - s * rx * 0.18, ay + ry * 0.04); ctx.closePath(); };
+          paint(ctx, vgrad(ctx, ay, ey2, fur), lw, drop);
+          ctx.save(); ctx.beginPath(); drop(); ctx.clip();
+          ctx.fillStyle = rgba(dark, 0.45); ctx.beginPath(); ellipse(ctx, ex2 - s * rx * 0.02, ey2 - ry * 0.05, rx * 0.16, ry * 0.12); ctx.fill();
+          ctx.strokeStyle = rgba(light, 0.55); ctx.lineWidth = lw; ctx.beginPath(); ctx.moveTo(ax, ay); ctx.quadraticCurveTo(ax + s * rx * 0.3, ay + ry * 0.15, ex2 - s * rx * 0.05, ey2 - ry * 0.35); ctx.stroke();
+          ctx.restore();
           continue;
         }
         paint(ctx, vgrad(ctx, by - h, by + h * 0.2, fur), lw, outer);
@@ -1034,11 +1092,12 @@
     const fs = FACES[L.face] || FACES.oval;
     const hs = child ? 1.12 : 1;
     const rx = U * 0.162 * fs[0] * hs * (L.sex === "女" ? 0.96 : 1), ry = U * 0.196 * fs[1] * hs;
-    const jaw = fs[2] * (L.sex === "女" ? 0.9 : 1);
+    const young = L.band === "young" || L.band === "child";
+    const jaw = fs[2] * (L.sex === "女" ? 0.74 : 0.9) * (young ? 0.88 : 1); // 若い顔ほど顎を細く
     const cx = x + w * 0.5;
     const cy = y + h * (child ? 0.44 : 0.39) + (L.hunch ? h * 0.04 : 0);
     const bottom = y + h;
-    const neckW = rx * (L.sex === "女" ? 0.42 : L.build === "broad" ? 0.58 : 0.5);
+    const neckW = rx * (L.sex === "女" ? 0.34 : L.build === "broad" ? 0.52 : 0.42) * (L.band === "child" ? 0.9 : 1);
     const y0 = cy + ry * (child ? 1.08 : 1.18);
     const S = { skin: L.skin };
     // 影の地面
@@ -1052,20 +1111,21 @@
     // 首の影
     ctx.fillStyle = rgba("#000000", 0.18); ctx.beginPath(); ellipse(ctx, cx, cy + ry * 0.95, neckW * 1.1, ry * 0.18); ctx.fill();
     // 耳
-    const ey = cy + ry * (child ? 0.2 : 0.1);
+    const ey = cy + ry * (child ? 0.27 : young ? 0.2 : 0.15); // 目は顔の中央より少し下
     // 獣人は横の耳を描かず、頭の上の耳を描く（L.ears === "none"。src/ui/r1_race.js）
     if (L.ears !== "none") sideEars(ctx, L, cx, ey, rx, ry, U);
     // 顔
     paint(ctx, rgrad(ctx, cx, cy, rx, L.skin), U * 0.009, () => facePath(ctx, cx, cy, rx, ry, jaw));
-    const sp = rx * 0.41, er = rx * (child ? 0.2 : 0.158) * (L.sex === "女" ? 1.05 : 1);
-    const fx = cx + rx * 0.07; // 顔の向き（目・鼻・口を少し右へ寄せる）
-    const my = cy + ry * (child ? 0.62 : 0.66), mw = rx * (child ? 0.22 : 0.28);
+    // 目は大きめ（若い女ほど大きく、歳とともに落ち着く）
+    const sp = rx * 0.44, er = rx * (child ? 0.27 : L.band === "young" ? (L.sex === "女" ? 0.25 : 0.215) : L.band === "mid" ? (L.sex === "女" ? 0.215 : 0.185) : 0.16);
+    const fx = cx + rx * 0.03; // 顔の向き（ほんの少し右へ）
+    const my = cy + ry * (child ? 0.66 : 0.69), mw = rx * (child ? 0.15 : L.sex === "女" ? 0.17 : 0.21);
     // 顔の起伏：前髪の落とす影、頬の赤み、あごの下の影
     ctx.save(); ctx.beginPath(); facePath(ctx, cx, cy, rx, ry, jaw); ctx.clip();
     if (L.hairStyle !== "bald") { const gh = ctx.createLinearGradient(0, cy - ry, 0, cy - ry * 0.25); gh.addColorStop(0, rgba(mix(L.skin, SHADOW, 0.6), 0.55)); gh.addColorStop(1, rgba(mix(L.skin, SHADOW, 0.6), 0)); ctx.fillStyle = gh; ctx.fillRect(cx - rx * 1.2, cy - ry * 1.1, rx * 2.4, ry * 0.9); }
-    for (const s2 of [-1, 1]) { const gc = ctx.createRadialGradient(cx + s2 * rx * 0.55, ey + er * 2, 0, cx + s2 * rx * 0.55, ey + er * 2, rx * 0.35); gc.addColorStop(0, rgba("#e06a5a", L.band === "child" ? 0.22 : 0.13)); gc.addColorStop(1, rgba("#e06a5a", 0)); ctx.fillStyle = gc; ctx.fillRect(cx - rx * 1.2, cy - ry, rx * 2.4, ry * 2.2); }
+    for (const s2 of [-1, 1]) { const gc = ctx.createRadialGradient(cx + s2 * rx * 0.55, ey + er * 2, 0, cx + s2 * rx * 0.55, ey + er * 2, rx * 0.35); gc.addColorStop(0, rgba("#ec6a6a", L.band === "child" ? 0.26 : L.band === "young" ? (L.sex === "女" ? 0.24 : 0.12) : 0.1)); gc.addColorStop(1, rgba("#e06a5a", 0)); ctx.fillStyle = gc; ctx.fillRect(cx - rx * 1.2, cy - ry, rx * 2.4, ry * 2.2); }
     // 奥（右）の頬は光から外れる
-    const gs = ctx.createLinearGradient(cx + rx * 0.35, 0, cx + rx * 1.05, 0); gs.addColorStop(0, rgba(mix(L.skin, SHADOW, 0.5), 0)); gs.addColorStop(1, rgba(mix(L.skin, SHADOW, 0.5), 0.45));
+    const gs = ctx.createLinearGradient(cx + rx * 0.35, 0, cx + rx * 1.05, 0); gs.addColorStop(0, rgba(mix(L.skin, SHADOW, 0.5), 0)); gs.addColorStop(1, rgba(mix(L.skin, SHADOW, 0.5), 0.28));
     ctx.fillStyle = gs; ctx.fillRect(cx, cy - ry * 1.2, rx * 1.2, ry * 2.4);
     ctx.restore();
     if (L.beast) beastCheeks(ctx, L, cx, cy, rx, ry, U);
@@ -1088,19 +1148,11 @@
   // 仕上げ：色をくすませ（彩度を落として暖かい灰に寄せる）、筆の跡を重ね、周りを暗くする（絵画の挿絵のように）
   function finish(ctx, L, x, y, w, h) {
     ctx.save();
-    ctx.globalCompositeOperation = "saturation"; ctx.globalAlpha = 0.32; ctx.fillStyle = "#807870"; ctx.fillRect(x, y, w, h);
-    ctx.globalCompositeOperation = "multiply"; ctx.globalAlpha = 0.35; ctx.fillStyle = "#e8d8bc"; ctx.fillRect(x, y, w, h);
+    ctx.globalCompositeOperation = "saturation"; ctx.globalAlpha = 0.14; ctx.fillStyle = "#807870"; ctx.fillRect(x, y, w, h);
+    ctx.globalCompositeOperation = "multiply"; ctx.globalAlpha = 0.18; ctx.fillStyle = "#e8d8bc"; ctx.fillRect(x, y, w, h);
     ctx.globalCompositeOperation = "source-over"; ctx.globalAlpha = 1;
-    const R = rng((L.seed || "p") + ":brush");
-    ctx.lineCap = "round";
-    for (let i = 0; i < 220; i++) {
-      // 筆のひと押し（向きのばらつく、にじんだ短い楕円）
-      const px = x + R() * w, py = y + R() * h, len = h * (0.012 + R() * 0.025), a = -0.7 + (R() - 0.5) * 2.2;
-      ctx.fillStyle = i % 2 ? "rgba(255,244,220,.04)" : "rgba(30,18,20,.05)";
-      ctx.beginPath(); ellipse(ctx, px, py, len, h * (0.004 + R() * 0.006), a); ctx.fill();
-    }
     const v = ctx.createRadialGradient(x + w * 0.45, y + h * 0.4, h * 0.3, x + w * 0.5, y + h * 0.5, h * 0.82);
-    v.addColorStop(0, "rgba(0,0,0,0)"); v.addColorStop(1, "rgba(14,8,10,.5)");
+    v.addColorStop(0, "rgba(0,0,0,0)"); v.addColorStop(1, "rgba(14,8,10,.38)");
     ctx.fillStyle = v; ctx.fillRect(x, y, w, h);
     ctx.restore();
   }
